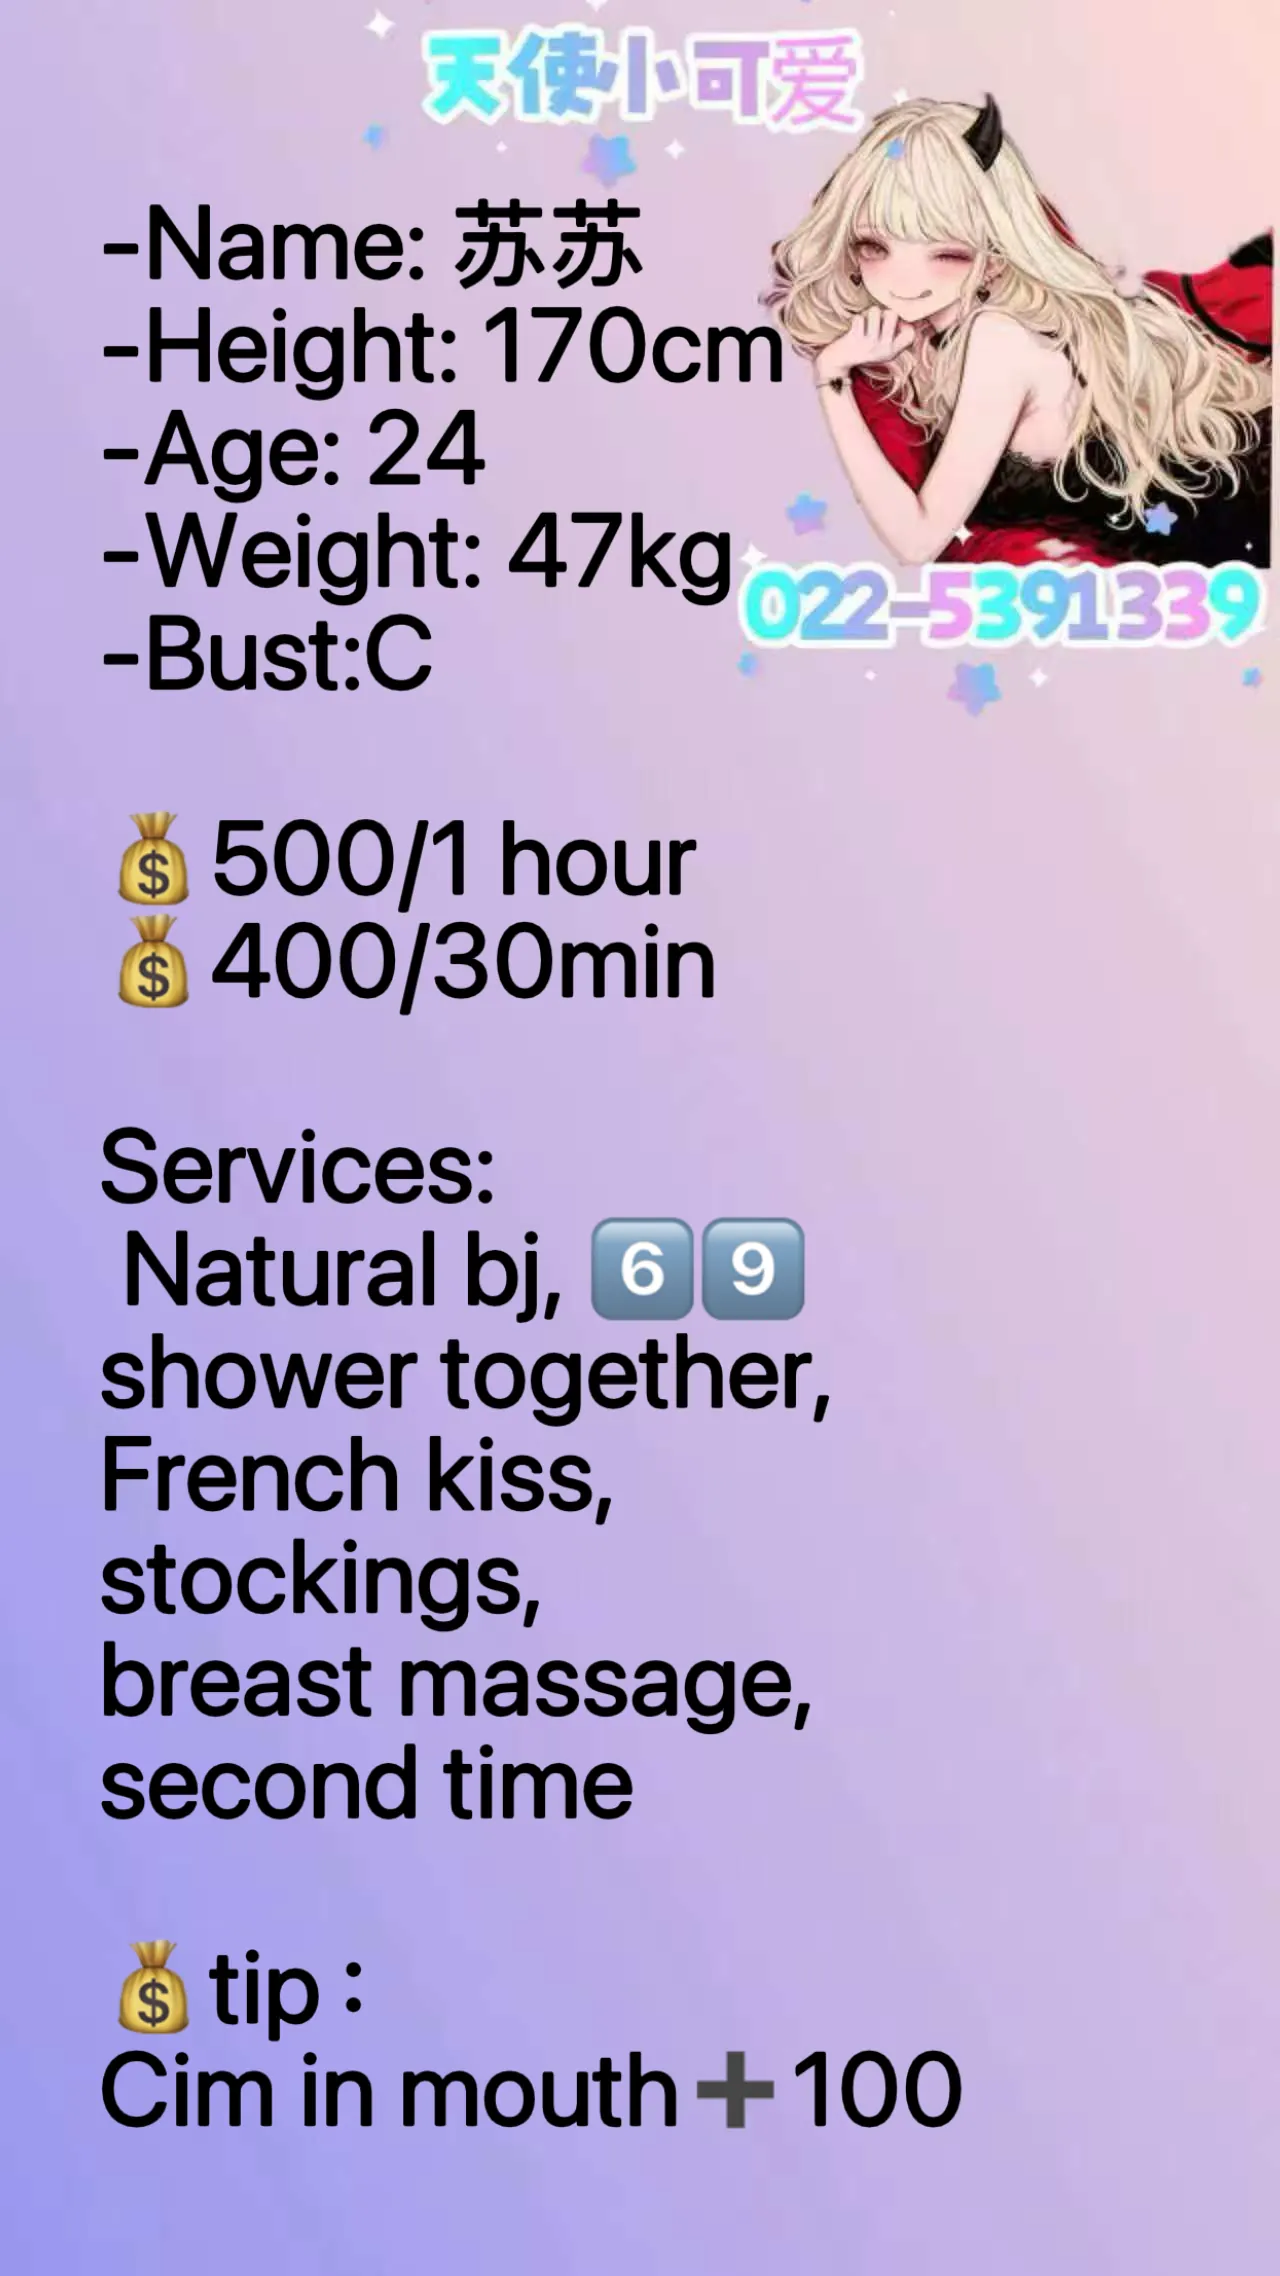
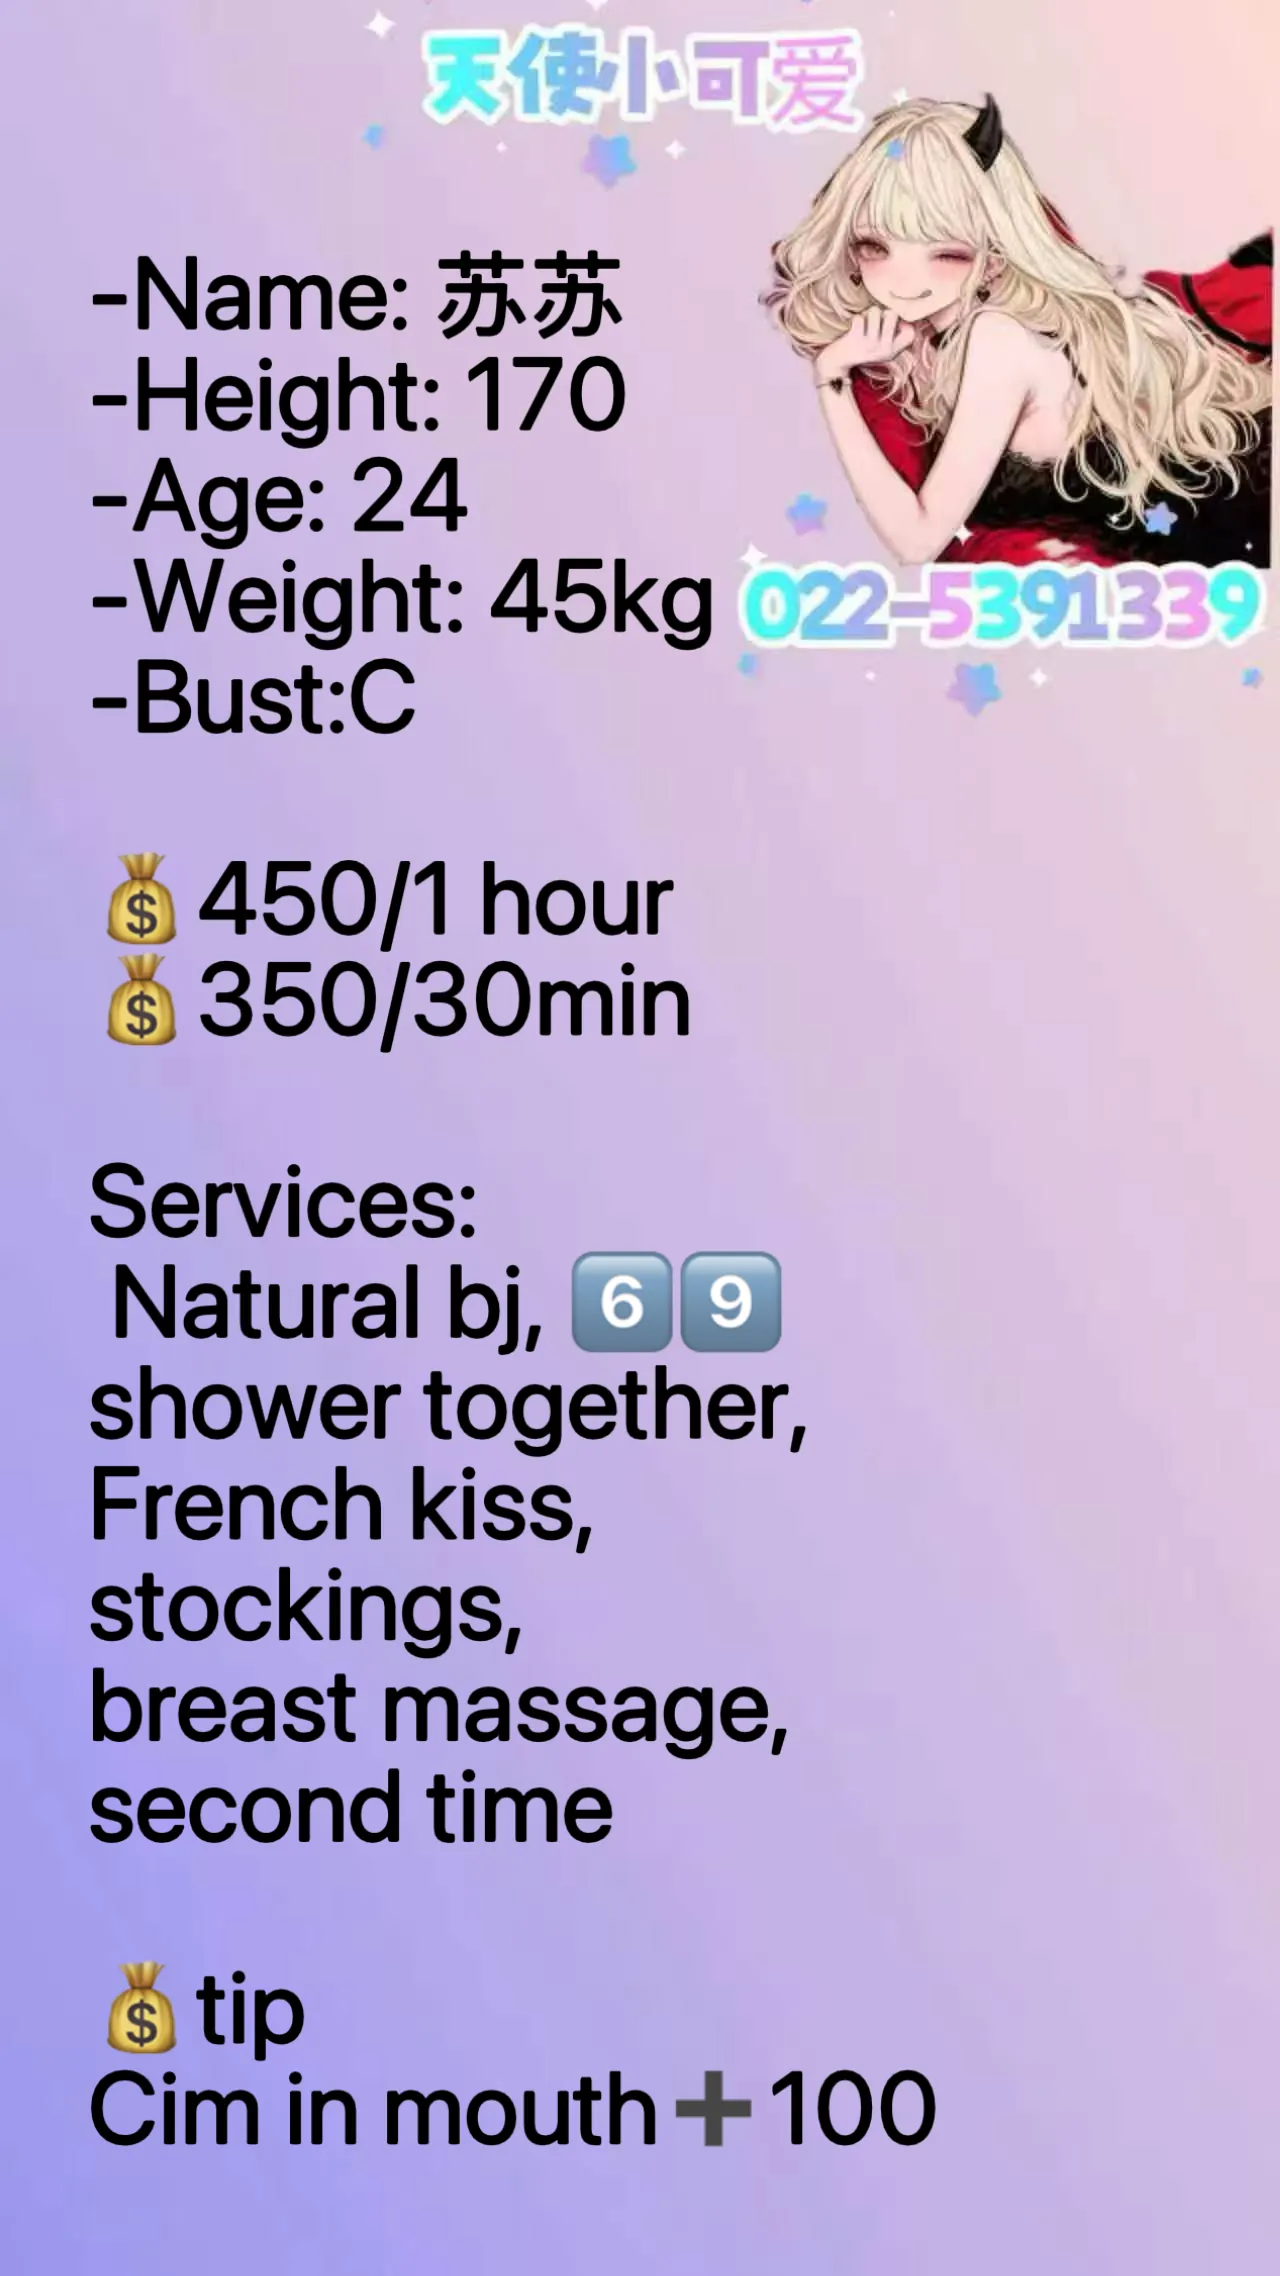
feat: update Susu's price and refresh gallery WebP assets

Changed region(s): [[0.0625, 0.0624, 0.625, 0.4679], [0.0625, 0.4991, 0.6562, 0.8111], [0.0625, 0.8423, 0.75, 0.967]]

diff --git a/src/lib/data.js b/src/lib/data.js
@@ -84,7 +84,7 @@ export const girls = [
       en: "The newest Australian arrival ✈ 170cm legs, model figure, fair skin and tender girl, extremely cooperative. Short stay in Auckland, what are you waiting for? Do not miss this...",
       cn: "最🆕澳洲空降✈170足腿精，模特身材，肤白妹嫩，配合度超高。短期停留奥克兰，小哥哥还在等什么，走过路过千万不要错过...",
     },
-    price: "$500 / 1h · $400 / 30min",
+    price: "$450 / 1h · $350 / 30min",
     services: {
       en: [
         "French kiss",
